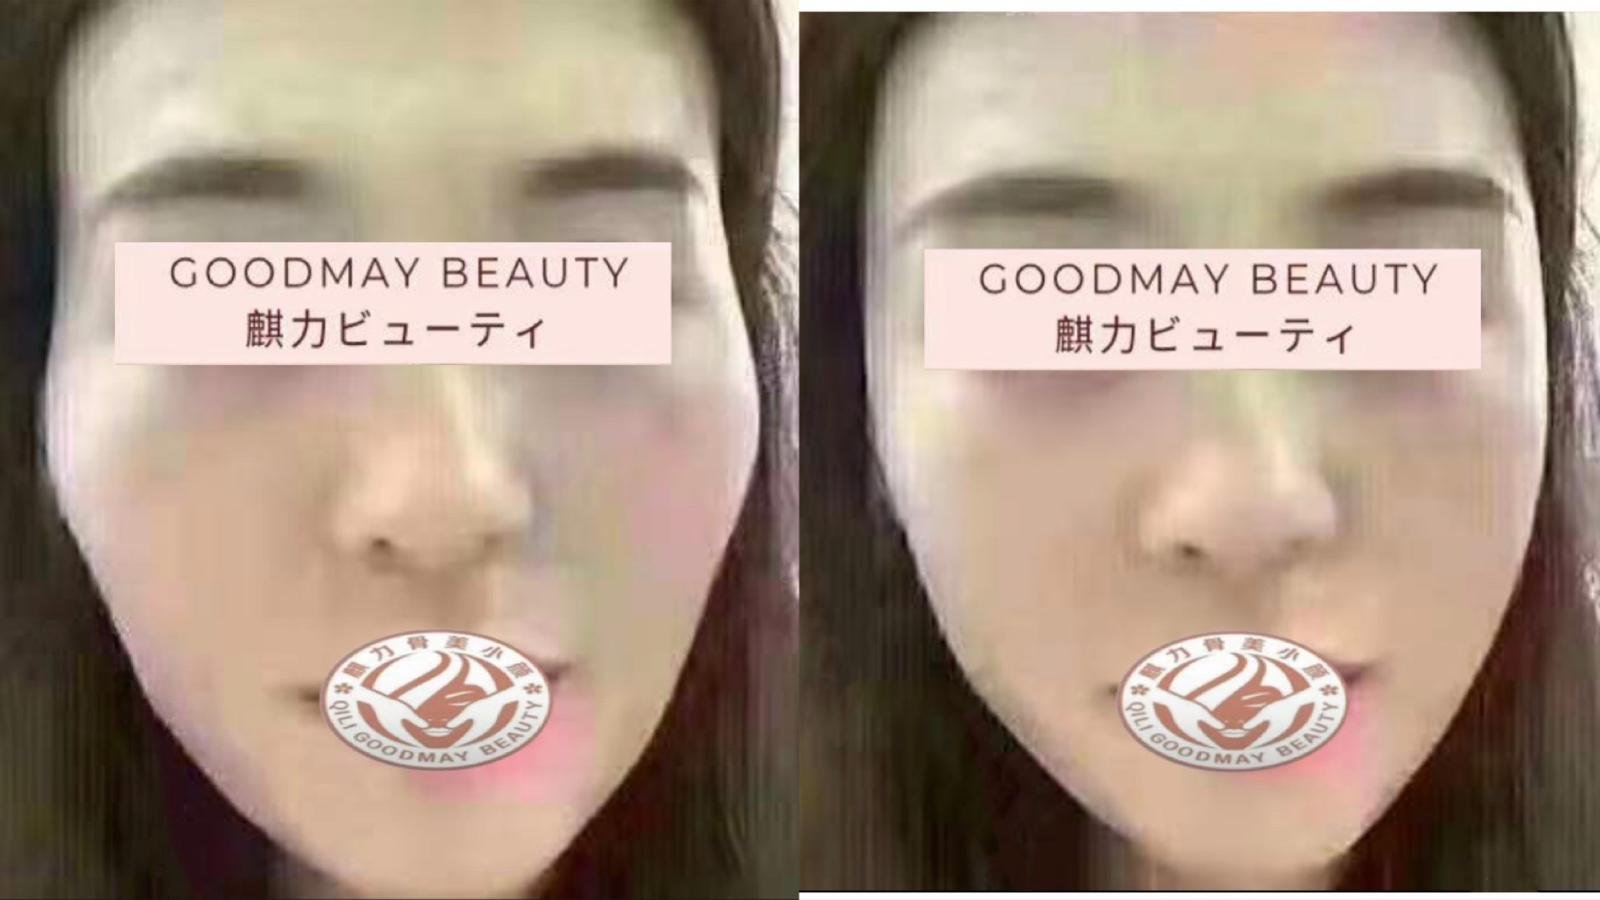
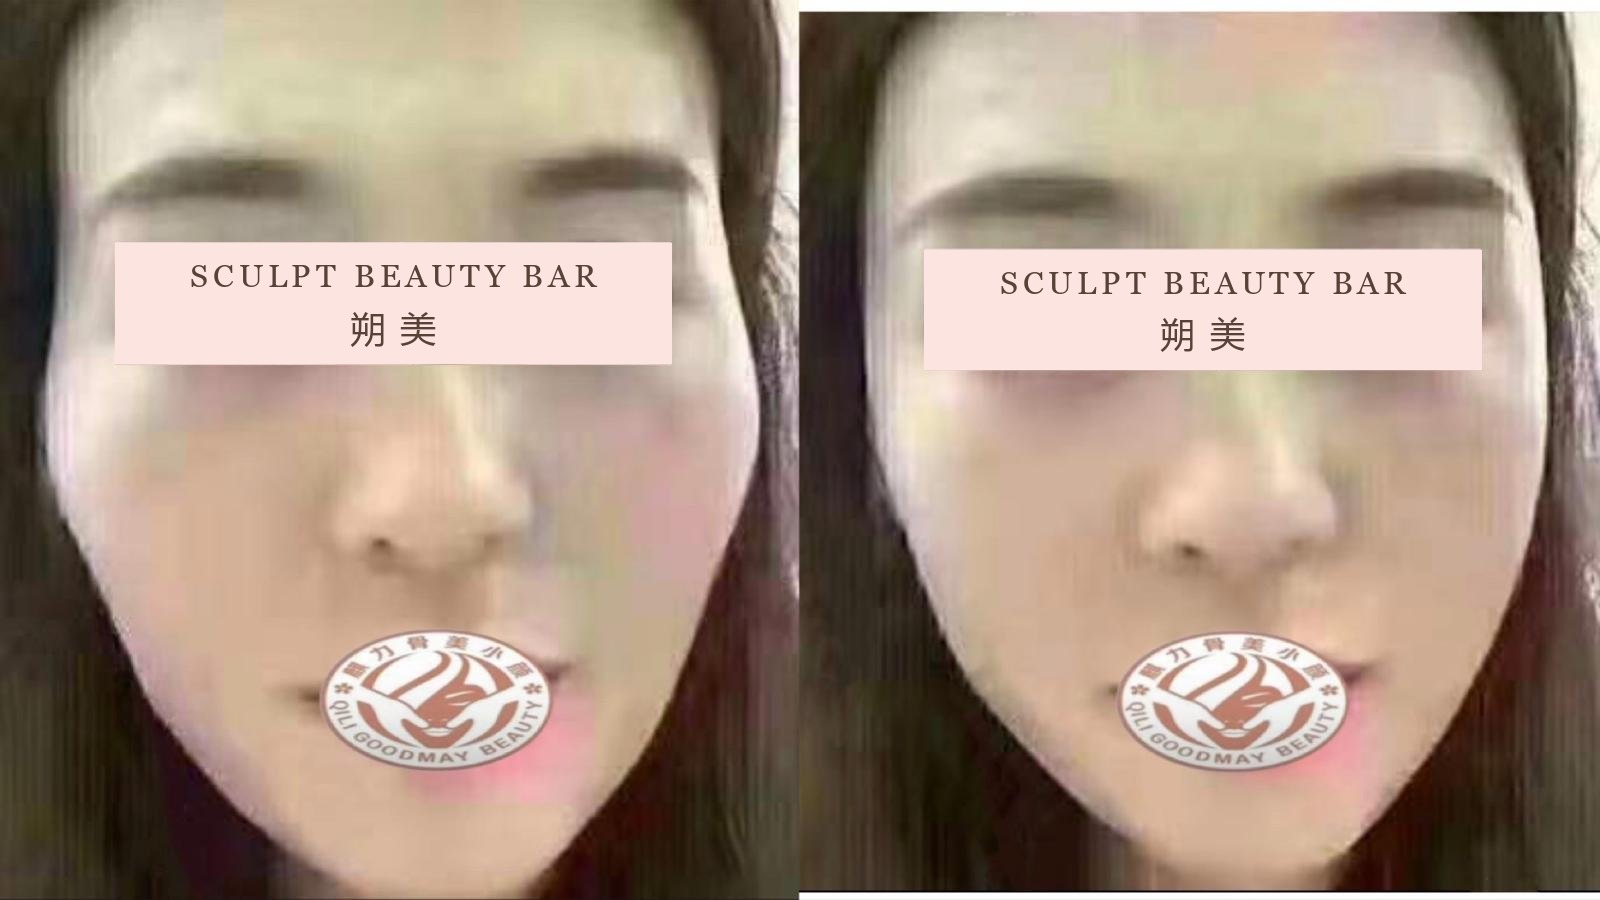
Apply client feedback: content, contact details, swipeable compliments
- Remove nail gallery captions and prices
- Replace GOODMAY watermark on before/after photos with shop name
- Rename testimonials heading to Compliments; nav Reviews -> Testimonial
- Make compliment rows auto-scroll but swipeable by hand
- Remove TCM/Nanotechnology hero line; move 专业塑形 雕琢自然之美 to About
- Smaller hero 朔美; footer reads 朔美 SCULPT BEAUTY BAR
- New body sculpting description
- Fill in address, hours and WhatsApp number/link

Changed region(s): [[0.5938, 0.28, 0.9062, 0.4044], [0.0938, 0.28, 0.4062, 0.4044]]

diff --git a/index.html b/index.html
@@ -4,18 +4,15 @@
 <meta charset="utf-8">
 <meta name="viewport" content="width=device-width, initial-scale=1">
 <title>Sculpt Beauty Bar · 朔美 | Face Lifting, Face Reshaping, Body Slimming</title>
-<meta name="description" content="Sculpt Beauty Bar 朔美 — where TCM wisdom meets German Nanotechnology. Face Lifting, Face Reshaping, Body Slimming and Nail Artistry. 专业塑形 雕琢自然之美">
+<meta name="description" content="Sculpt Beauty Bar 朔美 — Face Lifting, Face Reshaping, Body Slimming and Nail Artistry. 专业塑形 雕琢自然之美">
 <link rel="icon" href="images/icon.jpg">
 <link rel="preconnect" href="https://fonts.googleapis.com">
 <link href="https://fonts.googleapis.com/css2?family=Cinzel:wght@400;500&amp;family=Jost:wght@300;400;500&amp;family=Noto+Serif+SC:wght@400;600&amp;family=Noto+Sans+SC:wght@300;400;500&amp;display=swap" rel="stylesheet">
 <style>
 body{margin:0;background:#F4EFE7}
 a{color:#7A5A3C}a:hover{color:#4E3925}
-@keyframes sbb-scroll{from{transform:translateX(0)}to{transform:translateX(calc(-50% - 12px))}}
-.sbb-track{animation:sbb-scroll 70s linear infinite}
-.sbb-track.sbb-rev{animation-direction:reverse;animation-duration:60s}
-.sbb-marquee:hover .sbb-track,.sbb-marquee:active .sbb-track,.sbb-marquee:focus-within .sbb-track{animation-play-state:paused}
-@media (prefers-reduced-motion: reduce){.sbb-track{animation:none}.sbb-marquee{overflow-x:auto}}
+.sbb-marquee{scrollbar-width:none;-webkit-overflow-scrolling:touch;overscroll-behavior-x:contain}
+.sbb-marquee::-webkit-scrollbar{display:none}
 </style>
 <style>html{scroll-behavior:smooth}img{max-width:100%}section[id]{scroll-margin-top:80px}body{overflow-x:hidden}</style>
 </head>
@@ -33,7 +30,7 @@ a{color:#7A5A3C}a:hover{color:#4E3925}
 <a href="#about" style="text-decoration: none; color: #E6D8CB">ABOUT</a>
 <a href="#services" style="text-decoration: none; color: #E6D8CB">SERVICES</a>
 <a href="#results" style="text-decoration: none; color: #E6D8CB">RESULTS</a>
-<a href="#reviews" style="text-decoration: none; color: #E6D8CB">REVIEWS</a>
+<a href="#reviews" style="text-decoration: none; color: #E6D8CB">TESTIMONIAL</a>
 <a href="#visit" style="text-decoration: none; color: #E6D8CB">VISIT</a>
 <a href="#visit" style="text-decoration: none; background: #D9B79C; color: #14100D; padding: 12px 22px; border-radius: 999px">BOOK NOW 预约</a>
 </div>
@@ -45,15 +42,14 @@ a{color:#7A5A3C}a:hover{color:#4E3925}
 <div style="max-width: 1100px; margin: 0 auto; padding: 24px 24px 96px; display: flex; flex-direction: column; align-items: center; text-align: center; gap: 24px">
 <h1 style="margin: 0; width: 100%; max-width: 860px; display: flex; flex-direction: column; align-items: center">
 <img src="images/logo-emblem.jpg" alt="" style="display: block; width: 100%; height: auto">
-<span style="font-family: 'Noto Serif SC', serif; font-size: 64px; font-weight: 600; letter-spacing: 0.2em; padding-left: 0.2em; line-height: 1.2; color: #EBD3BE; margin: 8px 0 4px">朔美</span>
+<span style="font-family: 'Noto Serif SC', serif; font-size: clamp(30px, 8vw, 48px); font-weight: 600; letter-spacing: 0.2em; padding-left: 0.2em; line-height: 1.2; color: #EBD3BE; margin: 8px 0 4px">朔美</span>
 <img src="images/logo-wordmark.jpg" alt="Sculpt Beauty Bar — Body Sculpting | Facial Contouring" style="display: block; width: 100%; height: auto">
 </h1>
 <p style="margin: 0; font-family: 'Noto Serif SC', serif; font-size: 22px; letter-spacing: 0.3em; color: #EBD3BE">专业面部 · 身体塑形</p>
 <div style="display: flex; flex-direction: column; gap: 18px; max-width: 640px; padding-top: 8px">
-<p style="margin: 0; font-size: 19px; line-height: 1.7; color: #E6D8CB">Where TCM wisdom meets German Nanotechnology on<br><span style="color: #EBD3BE; letter-spacing: 0.06em; font-weight: 500">Face Lifting. Face Reshaping. Body Slimming.</span></p>
+<p style="margin: 0; font-size: 19px; line-height: 1.7; color: #E6D8CB"><span style="color: #EBD3BE; letter-spacing: 0.06em; font-weight: 500">Face Lifting. Face Reshaping. Body Slimming.</span></p>
 <p style="margin: 0; font-size: 18px; line-height: 1.7; font-style: italic; color: #CFC3B8">Artistry by hand, guided by intention.</p>
 <p style="margin: 0; font-size: 18px; line-height: 1.7; color: #CFC3B8">A serene space to refine your contours, rediscover your elegance — and begin again.</p>
-<p style="margin: 0; font-family: 'Noto Serif SC', serif; font-size: 24px; letter-spacing: 0.2em; color: #EBD3BE; padding-top: 4px">专业塑形 雕琢自然之美</p>
 </div>
 <div style="display: flex; flex-wrap: wrap; justify-content: center; gap: 14px; padding-top: 8px">
 <a href="#visit" style="text-decoration: none; background: #D9B79C; color: #14100D; padding: 16px 30px; border-radius: 999px; font-size: 15px; letter-spacing: 0.14em">BOOK A TREATMENT</a>
@@ -70,6 +66,7 @@ a{color:#7A5A3C}a:hover{color:#4E3925}
 <div style="flex: 1 1 320px; min-width: 0; display: flex; flex-direction: column; gap: 12px">
 <p style="margin: 0; font-size: 14px; letter-spacing: 0.3em; color: #6E5A47">OUR NAME · 品牌理念</p>
 <h2 style="margin: 0; font-family: 'Noto Serif SC', serif; font-size: 44px; font-weight: 600; line-height: 1.25">朔，是新月。<br>美，是你。</h2>
+<p style="margin: 0; font-family: 'Noto Serif SC', serif; font-size: 24px; letter-spacing: 0.2em; color: #4A3C30; padding-top: 4px">专业塑形 雕琢自然之美</p>
 </div>
 <div style="flex: 2 1 480px; min-width: 0; display: flex; flex-direction: column; gap: 16px">
 <h3 style="margin: 0; font-size: 20px; letter-spacing: 0.1em; font-weight: 500">A new beginning</h3>
@@ -165,7 +162,7 @@ a{color:#7A5A3C}a:hover{color:#4E3925}
 <li style="display: flex; flex-direction: column; gap: 2px"><span style="font-size: 16px; font-weight: 500">Back Contouring</span><span style="font-family: 'Noto Sans SC', sans-serif; font-size: 15px; color: #6E5A47">背部纤体护理</span><span style="display: flex; align-items: baseline; gap: 8px; padding-top: 4px"><span style="font-size: 20px; font-weight: 500; color: #8A6544">S$98</span><s style="font-size: 14px; color: #6E5A47">S$258</s></span></li>
 <li style="display: flex; flex-direction: column; gap: 2px"><span style="font-size: 16px; font-weight: 500">Thigh Contouring</span><span style="font-family: 'Noto Sans SC', sans-serif; font-size: 15px; color: #6E5A47">大腿纤体护理</span><span style="display: flex; align-items: baseline; gap: 8px; padding-top: 4px"><span style="font-size: 20px; font-weight: 500; color: #8A6544">S$108</span><s style="font-size: 14px; color: #6E5A47">S$268</s></span></li>
 </ul>
-<p style="margin: 0; font-size: 15px; line-height: 1.7; color: #4A3C30">A hands-on body treatment incorporating meridian techniques and lymphatic drainage massage to help ease the feeling of puffiness and refine the appearance of your natural contours.</p>
+<p style="margin: 0; font-size: 15px; line-height: 1.7; color: #4A3C30">Combining German-engineered technology with Traditional Chinese Medicine (TCM) principles, our body sculpting treatment supports body contouring, skin firming, and circulation. Paired with a heated abdominal wrap, it provides a relaxing body care experience designed to support a smoother, firmer-looking figure.</p>
 </article>
 <article style="flex: 1 1 100%; min-width: 0; box-sizing: border-box; background: #FBF8F3; border: 1px solid #DDD1C1; border-radius: 20px; padding: 40px 32px; display: flex; flex-direction: column; gap: 28px">
 <div style="display: flex; flex-wrap: wrap; gap: 24px 48px; align-items: flex-end; justify-content: space-between">
@@ -183,19 +180,15 @@ a{color:#7A5A3C}a:hover{color:#4E3925}
 <div style="display: grid; grid-template-columns: repeat(auto-fit, minmax(150px, 1fr)); gap: 20px">
 <figure style="margin: 0; display: flex; flex-direction: column; gap: 10px">
 <img src="images/nail-bow.jpg" alt="Nail design: Blush ombré with 3D bows" style="display: block; width: 100%; aspect-ratio: 1 / 1; object-fit: cover; border-radius: 14px">
-<figcaption style="display: flex; justify-content: space-between; align-items: baseline; gap: 8px"><span style="font-size: 14px; color: #4A3C30">Blush ombré with 3D bows</span><span style="font-size: 18px; font-weight: 500; color: #8A6544">S$88</span></figcaption>
 </figure>
 <figure style="margin: 0; display: flex; flex-direction: column; gap: 10px">
 <img src="images/nail-pearl.jpg" alt="Nail design: Pearl-trimmed almond French" style="display: block; width: 100%; aspect-ratio: 1 / 1; object-fit: cover; border-radius: 14px">
-<figcaption style="display: flex; justify-content: space-between; align-items: baseline; gap: 8px"><span style="font-size: 14px; color: #4A3C30">Pearl-trimmed almond French</span><span style="font-size: 18px; font-weight: 500; color: #8A6544">S$88</span></figcaption>
 </figure>
 <figure style="margin: 0; display: flex; flex-direction: column; gap: 10px">
 <img src="images/nail-burgundy.jpg" alt="Nail design: Burgundy &amp; ribbon accents" style="display: block; width: 100%; aspect-ratio: 1 / 1; object-fit: cover; border-radius: 14px">
-<figcaption style="display: flex; justify-content: space-between; align-items: baseline; gap: 8px"><span style="font-size: 14px; color: #4A3C30">Burgundy &amp; ribbon accents</span><span style="font-size: 18px; font-weight: 500; color: #8A6544">S$78</span></figcaption>
 </figure>
 <figure style="margin: 0; display: flex; flex-direction: column; gap: 10px">
 <img src="images/nail-nude.jpg" alt="Nail design: Sheer nude gloss" style="display: block; width: 100%; aspect-ratio: 1 / 1; object-fit: cover; border-radius: 14px">
-<figcaption style="display: flex; justify-content: space-between; align-items: baseline; gap: 8px"><span style="font-size: 14px; color: #4A3C30">Sheer nude gloss</span><span style="font-size: 18px; font-weight: 500; color: #8A6544">S$68</span></figcaption>
 </figure>
 </div>
 </article>
@@ -283,13 +276,13 @@ a{color:#7A5A3C}a:hover{color:#4E3925}
 <p style="margin: 0; font-family: 'Cinzel', serif; font-size: 20px; line-height: 1.6; color: #3A2E24">Every transformation begins with a moment for yourself.</p>
 <p style="margin: 0; font-size: 17px; line-height: 1.7; color: #4A3C30">By appointment only. Connect with us on WhatsApp to arrange your personalised beauty experience.</p>
 <div style="display: flex; flex-direction: column; gap: 18px; font-size: 16px; line-height: 1.6">
-<div style="display: flex; gap: 16px"><span style="width: 96px; flex: none; font-size: 13px; letter-spacing: 0.18em; color: #6E5A47; padding-top: 3px">ADDRESS</span><span>[SALON ADDRESS], Singapore [POSTAL CODE]</span></div>
-<div style="display: flex; gap: 16px"><span style="width: 96px; flex: none; font-size: 13px; letter-spacing: 0.18em; color: #6E5A47; padding-top: 3px">HOURS</span><span>[OPENING HOURS]</span></div>
-<div style="display: flex; gap: 16px"><span style="width: 96px; flex: none; font-size: 13px; letter-spacing: 0.18em; color: #6E5A47; padding-top: 3px">WHATSAPP</span><span>[+65 XXXX XXXX]</span></div>
+<div style="display: flex; gap: 16px"><span style="width: 96px; flex: none; font-size: 13px; letter-spacing: 0.18em; color: #6E5A47; padding-top: 3px">ADDRESS</span><span>51 Chin Swee Road #01-77, Singapore 160051</span></div>
+<div style="display: flex; gap: 16px"><span style="width: 96px; flex: none; font-size: 13px; letter-spacing: 0.18em; color: #6E5A47; padding-top: 3px">HOURS</span><span>11am – 9pm daily</span></div>
+<div style="display: flex; gap: 16px"><span style="width: 96px; flex: none; font-size: 13px; letter-spacing: 0.18em; color: #6E5A47; padding-top: 3px">WHATSAPP</span><span><a href="https://wa.me/6581291123">+65 8129 1123</a></span></div>
 <div style="display: flex; gap: 16px"><span style="width: 96px; flex: none; font-size: 13px; letter-spacing: 0.18em; color: #6E5A47; padding-top: 3px">INSTAGRAM</span><span>[@HANDLE]</span></div>
 </div>
 <div style="display: flex; flex-wrap: wrap; gap: 14px; padding-top: 8px">
-<a href="https://wa.me/" style="text-decoration: none; background: #8A6544; color: #FFFFFF; padding: 16px 30px; border-radius: 999px; font-size: 15px; letter-spacing: 0.14em">WHATSAPP TO BOOK</a>
+<a href="https://wa.me/6581291123" style="text-decoration: none; background: #8A6544; color: #FFFFFF; padding: 16px 30px; border-radius: 999px; font-size: 15px; letter-spacing: 0.14em">WHATSAPP TO BOOK</a>
 </div>
 </div>
 <div role="img" aria-label="Map placeholder" style="flex: 1 1 380px; min-width: 0; min-height: 360px; border-radius: 20px; background: #E6DACB; display: flex; align-items: center; justify-content: center; color: #6E5A47; font-size: 14px; letter-spacing: 0.12em; text-align: center; padding: 24px; box-sizing: border-box">[MAP / STOREFRONT PHOTO]</div>
@@ -300,11 +293,11 @@ a{color:#7A5A3C}a:hover{color:#4E3925}
 <div style="max-width: 1200px; margin: 0 auto; padding: 112px 24px; display: flex; flex-direction: column; gap: 48px">
 <div style="display: flex; flex-direction: column; gap: 12px; align-items: center; text-align: center">
 <p style="margin: 0; font-size: 14px; letter-spacing: 0.3em; color: #6E5A47">TESTIMONIALS · 顾客好评</p>
-<h2 style="margin: 0; font-family: 'Cinzel', serif; font-size: 44px; letter-spacing: 0.12em; font-weight: 400">Kind Words</h2>
+<h2 style="margin: 0; font-family: 'Cinzel', serif; font-size: 44px; letter-spacing: 0.12em; font-weight: 400">Compliments</h2>
 <p style="margin: 0; font-size: 15px; color: #6E5A47">From our clients’ reviews on Carousell</p>
 </div>
 <div style="display: flex; flex-direction: column; gap: 24px; margin: 0 -24px; -webkit-mask-image: linear-gradient(90deg, transparent, #000 6%, #000 94%, transparent); mask-image: linear-gradient(90deg, transparent, #000 6%, #000 94%, transparent)">
-<div class="sbb-marquee" style="overflow: hidden; padding: 4px 0">
+<div class="sbb-marquee" style="overflow-x: auto; padding: 4px 0">
 <div class="sbb-track" style="display: flex; align-items: stretch; gap: 24px; width: max-content">
 <blockquote style="flex: none; width: min(340px, 80vw); box-sizing: border-box; margin: 0; background: #FBF8F3; border: 1px solid #DDD1C1; border-radius: 20px; padding: 28px; display: flex; flex-direction: column; gap: 14px">
 <div role="img" aria-label="5 out of 5 stars" style="display: flex; gap: 3px"><svg width="16" height="16" viewBox="0 0 24 24" aria-hidden="true"><path d="M12 2.5l2.9 6.1 6.6.8-4.9 4.6 1.3 6.6L12 17.3l-5.9 3.3 1.3-6.6-4.9-4.6 6.6-.8z" fill="#B88A5E"></path></svg><svg width="16" height="16" viewBox="0 0 24 24" aria-hidden="true"><path d="M12 2.5l2.9 6.1 6.6.8-4.9 4.6 1.3 6.6L12 17.3l-5.9 3.3 1.3-6.6-4.9-4.6 6.6-.8z" fill="#B88A5E"></path></svg><svg width="16" height="16" viewBox="0 0 24 24" aria-hidden="true"><path d="M12 2.5l2.9 6.1 6.6.8-4.9 4.6 1.3 6.6L12 17.3l-5.9 3.3 1.3-6.6-4.9-4.6 6.6-.8z" fill="#B88A5E"></path></svg><svg width="16" height="16" viewBox="0 0 24 24" aria-hidden="true"><path d="M12 2.5l2.9 6.1 6.6.8-4.9 4.6 1.3 6.6L12 17.3l-5.9 3.3 1.3-6.6-4.9-4.6 6.6-.8z" fill="#B88A5E"></path></svg><svg width="16" height="16" viewBox="0 0 24 24" aria-hidden="true"><path d="M12 2.5l2.9 6.1 6.6.8-4.9 4.6 1.3 6.6L12 17.3l-5.9 3.3 1.3-6.6-4.9-4.6 6.6-.8z" fill="#B88A5E"></path></svg></div>
@@ -360,7 +353,7 @@ a{color:#7A5A3C}a:hover{color:#4E3925}
 </blockquote>
 </div>
 </div>
-<div class="sbb-marquee" style="overflow: hidden; padding: 4px 0">
+<div class="sbb-marquee" style="overflow-x: auto; padding: 4px 0">
 <div class="sbb-track sbb-rev" style="display: flex; align-items: stretch; gap: 24px; width: max-content">
 <blockquote style="flex: none; width: min(340px, 80vw); box-sizing: border-box; margin: 0; background: #FBF8F3; border: 1px solid #DDD1C1; border-radius: 20px; padding: 28px; display: flex; flex-direction: column; gap: 14px">
 <div role="img" aria-label="5 out of 5 stars" style="display: flex; gap: 3px"><svg width="16" height="16" viewBox="0 0 24 24" aria-hidden="true"><path d="M12 2.5l2.9 6.1 6.6.8-4.9 4.6 1.3 6.6L12 17.3l-5.9 3.3 1.3-6.6-4.9-4.6 6.6-.8z" fill="#B88A5E"></path></svg><svg width="16" height="16" viewBox="0 0 24 24" aria-hidden="true"><path d="M12 2.5l2.9 6.1 6.6.8-4.9 4.6 1.3 6.6L12 17.3l-5.9 3.3 1.3-6.6-4.9-4.6 6.6-.8z" fill="#B88A5E"></path></svg><svg width="16" height="16" viewBox="0 0 24 24" aria-hidden="true"><path d="M12 2.5l2.9 6.1 6.6.8-4.9 4.6 1.3 6.6L12 17.3l-5.9 3.3 1.3-6.6-4.9-4.6 6.6-.8z" fill="#B88A5E"></path></svg><svg width="16" height="16" viewBox="0 0 24 24" aria-hidden="true"><path d="M12 2.5l2.9 6.1 6.6.8-4.9 4.6 1.3 6.6L12 17.3l-5.9 3.3 1.3-6.6-4.9-4.6 6.6-.8z" fill="#B88A5E"></path></svg><svg width="16" height="16" viewBox="0 0 24 24" aria-hidden="true"><path d="M12 2.5l2.9 6.1 6.6.8-4.9 4.6 1.3 6.6L12 17.3l-5.9 3.3 1.3-6.6-4.9-4.6 6.6-.8z" fill="#B88A5E"></path></svg></div>
@@ -411,11 +404,54 @@ a{color:#7A5A3C}a:hover{color:#4E3925}
 <!-- FOOTER -->
 <footer style="border-top: 1px solid #DDD1C1">
 <div style="max-width: 1200px; margin: 0 auto; padding: 40px 24px; display: flex; flex-wrap: wrap; justify-content: space-between; align-items: center; gap: 16px; font-size: 14px; color: #6E5A47; letter-spacing: 0.08em">
-<span style="font-family: 'Cinzel', serif; color: #3A2E24; font-size: 16px; letter-spacing: 0.2em">SCULPT BEAUTY BAR <span style="font-family: 'Noto Serif SC', serif">朔美</span></span>
+<span style="font-family: 'Cinzel', serif; color: #3A2E24; font-size: 16px; letter-spacing: 0.2em"><span style="font-family: 'Noto Serif SC', serif">朔美</span> SCULPT BEAUTY BAR</span>
 <span>© 2026 Sculpt Beauty Bar. All rights reserved.</span>
 </div>
 </footer>
 
 </div>
+<script>
+// Compliments: auto-scroll each row, pause while the visitor swipes/hovers, loop seamlessly.
+(function () {
+  var reduce = window.matchMedia('(prefers-reduced-motion: reduce)').matches;
+  document.querySelectorAll('.sbb-marquee').forEach(function (m) {
+    var track = m.querySelector('.sbb-track');
+    var dir = track.classList.contains('sbb-rev') ? -1 : 1;
+    var speed = 32; // px per second
+    var held = false, idleUntil = 0, pos = 0, last = 0;
+    function loopLen() { return track.scrollWidth / 2 + 12; }
+    function wrap() {
+      var L = loopLen();
+      if (m.scrollLeft >= L) m.scrollLeft -= L;
+      else if (m.scrollLeft <= 0) m.scrollLeft += L;
+    }
+    function pause() { held = true; }
+    function release() { held = false; idleUntil = performance.now() + 2500; }
+    m.addEventListener('touchstart', pause, { passive: true });
+    m.addEventListener('touchend', release);
+    m.addEventListener('touchcancel', release);
+    m.addEventListener('mouseenter', pause);
+    m.addEventListener('mouseleave', release);
+    m.addEventListener('wheel', function () { idleUntil = performance.now() + 2500; }, { passive: true });
+    m.addEventListener('scroll', function () { if (held || performance.now() < idleUntil) wrap(); }, { passive: true });
+    requestAnimationFrame(function () { if (dir < 0) m.scrollLeft = loopLen(); pos = m.scrollLeft; });
+    if (reduce) return;
+    function tick(t) {
+      var dt = last ? Math.min((t - last) / 1000, 0.1) : 0;
+      last = t;
+      if (held || t < idleUntil) {
+        pos = m.scrollLeft;
+      } else {
+        var L = loopLen();
+        pos += dir * speed * dt;
+        if (pos >= L) pos -= L; else if (pos < 0) pos += L;
+        m.scrollLeft = pos;
+      }
+      requestAnimationFrame(tick);
+    }
+    requestAnimationFrame(tick);
+  });
+})();
+</script>
 </body>
 </html>
